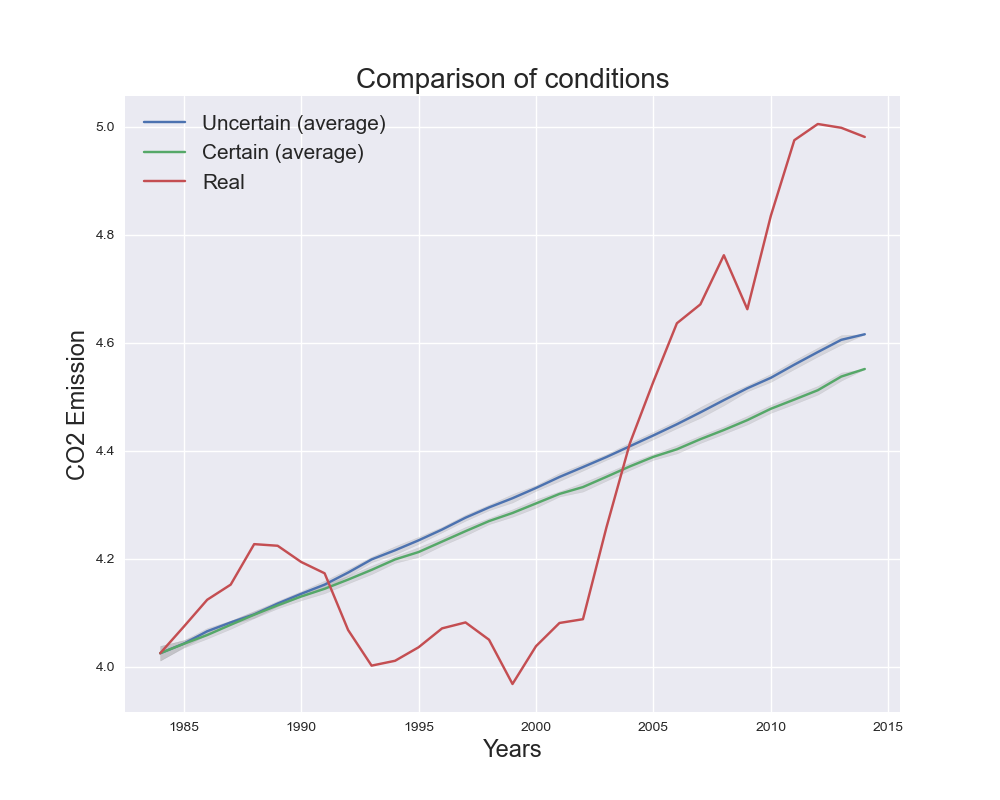
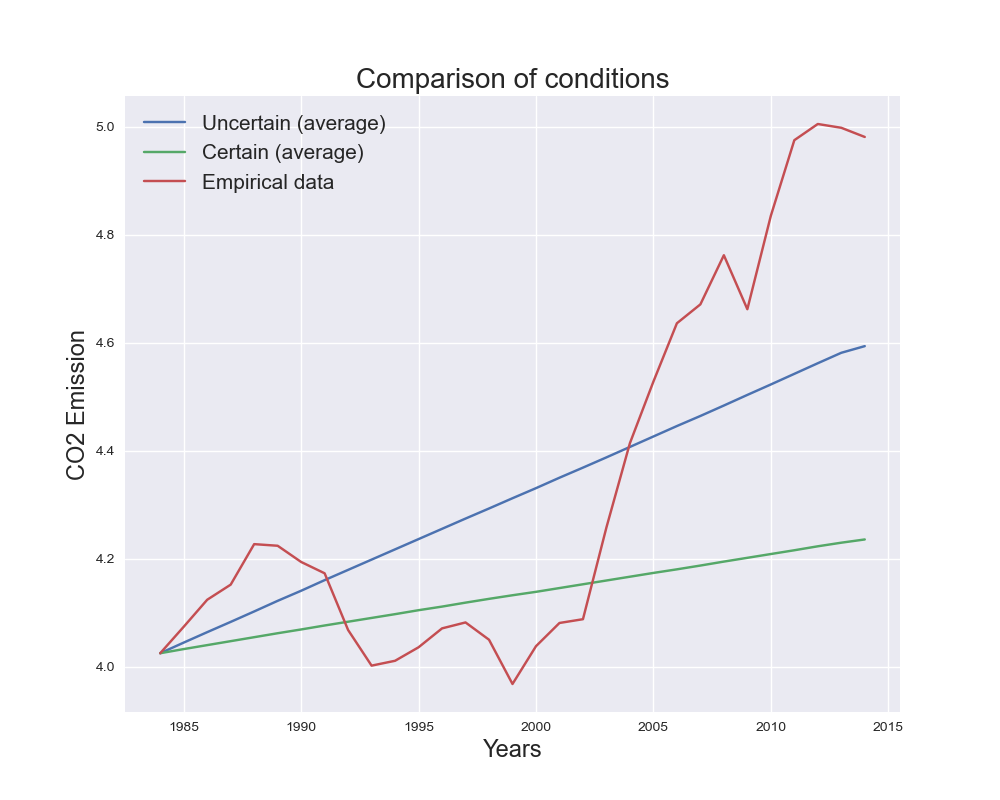
normalising the outcomes

diff --git a/plotting.py b/plotting.py
@@ -10,7 +10,7 @@ plt.style.use('seaborn')
 
 
 #evaluate RL across several runs with 40 learning epochs
-test_runs = 10
+test_runs = 1000
 LT_Greedy_list,MT_Greedy_list,ST_Greedy_list, LT_Selfish_Plan_list,MT_Selfish_Plan_list,ST_Selfish_Plan_list, LT_Synergistic_list,MT_Synergistic_list,ST_Synergistic_list, Q_LT_average_list, Q_MT_average_list, Q_ST_average_list = [],[],[],[],[],[],[],[],[],[],[],[]
 LT_Greedy_u_list,MT_Greedy_u_list,ST_Greedy_u_list, LT_Selfish_Plan_u_list,MT_Selfish_Plan_u_list,ST_Selfish_Plan_u_list, LT_Synergistic_u_list,MT_Synergistic_u_list,ST_Synergistic_u_list, Q_LT_average_u_list, Q_MT_average_u_list, Q_ST_average_u_list = [],[],[],[],[],[],[],[],[],[],[],[]
 
@@ -193,9 +193,13 @@ global_trend_Greedy = get_trend(LT_Greedy_mean,MT_Greedy_mean,ST_Greedy_mean)
 global_trend_Selfish = get_trend(LT_Selfish_Plan_mean,MT_Selfish_Plan_mean,ST_Selfish_Plan_mean)
 global_trend_Synergistic = get_trend(LT_Synergistic_mean,MT_Synergistic_mean,ST_Synergistic_mean)
 
-#SD
+global_trend_Greedy_u = get_trend(LT_Greedy_u_mean,MT_Greedy_u_mean,ST_Greedy_u_mean)
+global_trend_Selfish_u = get_trend(LT_Selfish_Plan_u_mean,MT_Selfish_Plan_u_mean,ST_Selfish_Plan_u_mean)
+global_trend_Synergistic_u = get_trend(LT_Synergistic_u_mean,MT_Synergistic_u_mean,ST_Synergistic_u_mean)
+
+##report SD and mean
+#calculate SD
 print("greedy certain std:", global_trend_Greedy_std[-1])
-print("gre", global_trend_Greedy_std)
 print("selfish certain std:", global_trend_Selfish_std[-1])
 print("util certain std:", global_trend_Synergistic_std[-1])
 
@@ -203,44 +207,14 @@ print("greedy uncertain std:", global_trend_Greedy_u_std[-1])
 print("selfish ununcertain std:", global_trend_Selfish_u_std[-1])
 print("util uncertain std:", global_trend_Synergistic_std[-1])
 
-
-#mean
+#calculate mean
 print("certain greedy:", global_trend_Greedy[-1])
 print("certain selfish:", global_trend_Selfish[-1])
 print("certain util:", global_trend_Synergistic[-1])
 
-global_trend_Greedy_u = get_trend(LT_Greedy_u_mean,MT_Greedy_u_mean,ST_Greedy_u_mean)
-global_trend_Selfish_u = get_trend(LT_Selfish_Plan_u_mean,MT_Selfish_Plan_u_mean,ST_Selfish_Plan_u_mean)
-global_trend_Synergistic_u = get_trend(LT_Synergistic_u_mean,MT_Synergistic_u_mean,ST_Synergistic_u_mean)
-
 print("uncertain greedy:", global_trend_Greedy_u[-1])
 print("uncertain selfish:", global_trend_Selfish_u[-1])
 print("uncertain util:", global_trend_Synergistic_u[-1])
-'''
-plt.hist(global_trend_Greedy_u)
-plt.show()
-plt.hist(global_trend_Greedy)
-plt.show()
-
-plt.hist(global_trend_Selfish_u)
-plt.show()
-plt.hist(global_trend_Selfish)
-plt.show()
-
-plt.hist(global_trend_Synergistic_u)
-plt.show()
-plt.hist(global_trend_Synergistic)
-plt.show()
-'''
-
-t_test_greedy = stats.ttest_ind(global_trend_Greedy, global_trend_Greedy_u)
-print("t-test greedy", t_test_greedy)
-
-t_test_selfish = stats.ttest_ind(global_trend_Selfish, global_trend_Selfish_u)
-print("t-test selfish", t_test_selfish)
-
-t_test_util = stats.ttest_ind(global_trend_Synergistic, global_trend_Synergistic_u)
-print("t-test util", t_test_util)
 
 #ALL Policies certain
 plt.figure(figsize=(10,8))
@@ -248,19 +222,6 @@ plt.plot(years_array,global_trend_Greedy)
 plt.plot(years_array,global_trend_Selfish)
 plt.plot(years_array,global_trend_Synergistic)
 plt.plot(years_array,global_trend_Real)
-
-std_upper_synergistic, std_lower_synergistic = global_trend_Synergistic+(np.insert(global_trend_Synergistic_std, 0, 0)*2), global_trend_Synergistic-(np.insert(global_trend_Synergistic_std, 0, 0)*2)
-std_upper_selfish, std_lower_selfish = global_trend_Selfish+(np.insert(global_trend_Selfish_std, 0, 0)*2), global_trend_Selfish-(np.insert(global_trend_Selfish_std, 0, 0)*2)
-std_upper_greedy, std_lower_greedy = global_trend_Greedy+(global_trend_Greedy_std*2), global_trend_Greedy-(global_trend_Greedy_std*2)
-
-
-plt.fill_between(years_array,std_upper_synergistic, std_lower_synergistic,
-                 color='gray', alpha=0.2)
-plt.fill_between(years_array,std_upper_selfish, std_lower_selfish,
-                 color='gray', alpha=0.2)
-plt.fill_between(years_array,std_upper_greedy, std_lower_greedy,
-                 color='gray', alpha=0.2)
-
 
 plt.xlabel('Years', fontsize=17)
 plt.ylabel('CO2 Emission', fontsize=17)
@@ -276,24 +237,13 @@ plt.plot(years_array,global_trend_Selfish_u)
 plt.plot(years_array,global_trend_Synergistic_u)
 plt.plot(years_array,global_trend_Real)
 
-std_upper_u_synergistic, std_lower_u_synergistic = global_trend_Synergistic_u+(np.insert(global_trend_Synergistic_u_std, 0, 0)*2), global_trend_Synergistic_u-(np.insert(global_trend_Synergistic_u_std, 0, 0)*2)
-std_upper_u_selfish, std_lower_u_selfish = global_trend_Selfish_u+(np.insert(global_trend_Selfish_u_std, 0, 0)*2), global_trend_Selfish_u-(np.insert(global_trend_Selfish_u_std, 0, 0)*2)
-std_upper_u_greedy, std_lower_u_greedy = global_trend_Greedy_u+(global_trend_Greedy_u_std*2), global_trend_Greedy_u-(global_trend_Greedy_u_std*2)
-
-plt.fill_between(years_array,std_upper_u_synergistic, std_lower_u_synergistic,
-                 color='gray', alpha=0.2)
-plt.fill_between(years_array,std_upper_u_selfish, std_lower_u_selfish,
-                 color='gray', alpha=0.2)
-plt.fill_between(years_array,std_upper_u_greedy, std_lower_u_greedy,
-                 color='gray', alpha=0.2)
-
 plt.xlabel('Years', fontsize=17)
 plt.ylabel('CO2 Emission', fontsize=17)
 plt.legend(['Greedy','Selfish','Utilitarian','Empirical data'],fontsize=15)
 plt.title("Uncertain environment", fontsize=20)
 plt.savefig('Reducing-the-Global-Carbon-Footprint-based-on-MARL/plots/environment_uncertain.png')
 
-#Mean of uncertainty and certainty
+#Plotting the mean of uncertainty and certainty
 data_certain = np.array([global_trend_Greedy, global_trend_Selfish, global_trend_Synergistic])
 all_policies_certain = np.average(data_certain, axis=0)
 print("average certain",all_policies_certain[-1])
@@ -302,31 +252,10 @@ data_uncertain = np.array([global_trend_Greedy_u, global_trend_Selfish_u, global
 all_policies_uncertain = np.average(data_uncertain, axis=0)
 print("average uncertain",all_policies_uncertain[-1])
 
-
-####TTEST#####
-t_test_certainty = stats.ttest_ind(all_policies_certain, all_policies_uncertain)
-print("ttest certainty", t_test_certainty)
-
-
 plt.figure(figsize=(10,8))
 plt.plot(years_array,all_policies_uncertain)
 plt.plot(years_array,all_policies_certain)
 plt.plot(years_array,global_trend_Real)
-
-std_upper_uncertain = all_policies_uncertain+all_policies_uncertainty_std
-std_lower_uncertain = all_policies_uncertain-all_policies_uncertainty_std
-
-std_upper_certain = all_policies_certain+all_policies_certainty_std
-std_lower_certain = all_policies_certain-all_policies_certainty_std
-
-
-plt.fill_between(years_array,std_upper_uncertain, std_lower_uncertain,
-                 color='gray', alpha=0.2)
-
-plt.fill_between(years_array,std_upper_certain, std_lower_certain,
-                 color='gray', alpha=0.2)
-
-#add legends
 plt.xlabel('Years', fontsize=17)
 plt.ylabel('CO2 Emission', fontsize=17)
 plt.legend(['Uncertain (average)', 'Certain (average)','Empirical data'], fontsize=15)
@@ -338,29 +267,130 @@ plt.savefig('Reducing-the-Global-Carbon-Footprint-based-on-MARL/plots/comparison
 plt.figure(figsize=(10,8))
 epochs = range(0,len(Q_LT_average_mean))
 plt.axis([0, 40, 0, 0.003])
-plt.plot(epochs, Q_LT_average_mean)
-plt.plot(epochs, Q_MT_average_mean)
-plt.plot(epochs, Q_ST_average_mean)
-
-#add legends
+plt.plot(epochs, Q_LT_average_mean, color='purple')
+plt.plot(epochs, Q_MT_average_mean, color='orange')
+plt.plot(epochs, Q_ST_average_mean, color='green')
 plt.xlabel('Epochs', fontsize=17)
 plt.ylabel('Average Q-value', fontsize=17)
 plt.legend(['Average Q-values for LT', 'Average Q-values for MT','Average Q-values for ST'], fontsize=15)
 plt.title("Learning over epochs, Certain environment", fontsize=20)
 plt.savefig('Reducing-the-Global-Carbon-Footprint-based-on-MARL/plots/learning_over_epochs_certain.png')
 
-##Certain learning
+##Uncertain learning
 #plotting average Q-value over epochs
 plt.figure(figsize=(10,8))
 epochs = range(0,len(Q_LT_average_mean))
-plt.plot(epochs, Q_LT_average_u_mean)
-plt.plot(epochs, Q_MT_average_u_mean)
-plt.plot(epochs, Q_ST_average_u_mean)
+plt.plot(epochs, Q_LT_average_u_mean, color = 'purple')
+plt.plot(epochs, Q_MT_average_u_mean, color = 'orange')
+plt.plot(epochs, Q_ST_average_u_mean, color = 'green')
 plt.axis([0, 40, 0, 0.003])
-
-#add legends
 plt.xlabel('Epochs', fontsize=17)
 plt.ylabel('Average Q-value', fontsize=17)
 plt.legend(['Average Q-values for LT', 'Average Q-values for MT','Average Q-values for ST'], fontsize=15)
 plt.title("Learning over epochs, Uncertain environment", fontsize=20)
 plt.savefig('Reducing-the-Global-Carbon-Footprint-based-on-MARL/plots/learning_over_epochs_uncertain.png')
+
+
+#######################T-TEST###########################
+
+#Greedy
+Greedy_data_trend = [get_trend(i[0], i[1], i[2]) for i in zip(LT_Greedy_list, MT_Greedy_list, ST_Greedy_list)]
+global_state_greedy = np.array([i[-1] for i in Greedy_data_trend])
+log_global_state_greedy = np.log(global_state_greedy)
+
+
+Greedy_data_trend_u = [get_trend(i[0], i[1], i[2]) for i in zip(LT_Greedy_u_list, MT_Greedy_u_list, ST_Greedy_u_list)]
+global_state_greedy_u = np.array([i[-1] for i in Greedy_data_trend_u])
+log_global_state_greedy_u = np.log(global_state_greedy_u)
+
+t_test_greedy = stats.ttest_ind(log_global_state_greedy, log_global_state_greedy_u)
+print("t-test greedy", t_test_greedy)
+
+#Selfish
+Selfish_data_trend = [get_trend(i[0], i[1], i[2]) for i in zip(LT_Selfish_Plan_list, MT_Selfish_Plan_list, ST_Selfish_Plan_list)]
+global_state_selfish = np.array([i[-1] for i in Selfish_data_trend])
+log_global_state_selfish = np.log(global_state_selfish)
+
+
+Selfish_data_trend_u = [get_trend(i[0], i[1], i[2]) for i in zip(LT_Selfish_Plan_u_list, MT_Selfish_Plan_u_list, ST_Selfish_Plan_u_list)]
+global_state_selfish_u = np.array([i[-1] for i in Selfish_data_trend_u])
+log_global_state_selfish_u = np.log(global_state_selfish_u)
+
+
+t_test_selfish = stats.ttest_ind(log_global_state_selfish, log_global_state_selfish_u)
+print("t-test selfish", t_test_selfish)
+
+#Synergistic
+Synergistic_data_trend = [get_trend(i[0], i[1], i[2]) for i in zip(LT_Synergistic_list, MT_Synergistic_list, ST_Synergistic_list)]
+global_state_Synergistic = np.array([i[-1] for i in Synergistic_data_trend])
+log_global_state_Synergistic = np.log(global_state_Synergistic)
+
+
+Synergistic_data_trend_u = [get_trend(i[0], i[1], i[2]) for i in zip(LT_Synergistic_u_list, MT_Synergistic_u_list, ST_Synergistic_u_list)]
+global_state_Synergistic_u = np.array([i[-1] for i in Synergistic_data_trend_u])
+log_global_state_Synergistic_u = np.log(global_state_Synergistic_u)
+
+
+t_test_util = stats.ttest_ind(log_global_state_Synergistic, log_global_state_Synergistic_u)
+print("t-test util", t_test_util)
+
+#Overall
+all_policies_certain = np.array([Greedy_data_trend, Selfish_data_trend, Synergistic_data_trend])
+all_policies_certain_mean = np.average(all_policies_certain, axis=0)
+all_policies_certain_trend = np.array([i[-1] for i in all_policies_certain_mean])
+log_all_policies_certain_trend = np.log(all_policies_certain_trend)
+
+all_policies_uncertain = np.array([Greedy_data_trend_u, Selfish_data_trend_u, Synergistic_data_trend_u])
+all_policies_uncertain_mean = np.average(all_policies_uncertain, axis=0)
+all_policies_uncertain_trend = np.array([i[-1] for i in all_policies_uncertain_mean])
+log_all_policies_uncertain_trend = np.log(all_policies_uncertain_trend)
+
+t_test_certainty = stats.ttest_ind(log_all_policies_certain_trend, log_all_policies_uncertain_trend)
+print("ttest certainty", t_test_certainty)
+
+#Histogram: Overall Uncertainty/Certainty 
+plt.figure(figsize=(10,8))
+plt.hist(log_all_policies_certain_trend)
+plt.title("Histogram of Global End-States, Certain environment: Overall", fontsize=20)
+plt.savefig('Reducing-the-Global-Carbon-Footprint-based-on-MARL/plots/hist_global_states_certain.png')
+
+plt.figure(figsize=(10,8))
+plt.hist(log_all_policies_uncertain_trend)
+plt.title("Histogram of Global End-States, Uncertain environment: Overall", fontsize=20)
+plt.savefig('Reducing-the-Global-Carbon-Footprint-based-on-MARL/plots/hist_global_states_uncertain.png')
+
+#Histogram: Greed
+plt.figure(figsize=(10,8))
+plt.hist(log_global_state_greedy)
+plt.title("Histogram of Global End-States, Certain environment: Greedy Policy", fontsize=20)
+plt.savefig('Reducing-the-Global-Carbon-Footprint-based-on-MARL/plots/hist_global_states_certain_greed.png')
+
+plt.figure(figsize=(10,8))
+plt.hist(log_global_state_greedy_u)
+plt.title("Histogram of Global End-States, Uncertain environment: Greedy Policy", fontsize=20)
+plt.savefig('Reducing-the-Global-Carbon-Footprint-based-on-MARL/plots/hist_global_states_uncertain_greed.png')
+
+#Histogram: Synergistic
+plt.figure(figsize=(10,8))
+plt.hist(log_global_state_Synergistic)
+plt.title("Histogram of Global End-States, Certain environment: Utilitarian Policy", fontsize=20)
+plt.savefig('Reducing-the-Global-Carbon-Footprint-based-on-MARL/plots/hist_global_states_certain_utilitarian.png')
+
+plt.figure(figsize=(10,8))
+plt.hist(log_global_state_Synergistic_u)
+plt.title("Histogram of Global End-States, Uncertain environment: Utilitarian Policy", fontsize=20)
+plt.savefig('Reducing-the-Global-Carbon-Footprint-based-on-MARL/plots/hist_global_states_uncertain_utilitarian.png')
+
+#Histogram: Selfish Planning
+plt.figure(figsize=(10,8))
+plt.hist(log_global_state_selfish)
+plt.title("Histogram of Global End-States, Certain environment: Selfish Planning Policy", fontsize=20)
+plt.savefig('Reducing-the-Global-Carbon-Footprint-based-on-MARL/plots/hist_global_states_certain_selfish.png')
+
+plt.figure(figsize=(10,8))
+plt.hist(log_global_state_selfish_u)
+plt.title("Histogram of Global End-States, Uncertain environment: Selfish Planning Policy", fontsize=20)
+plt.savefig('Reducing-the-Global-Carbon-Footprint-based-on-MARL/plots/hist_global_states_uncertain_selfish.png')
+
+
+
